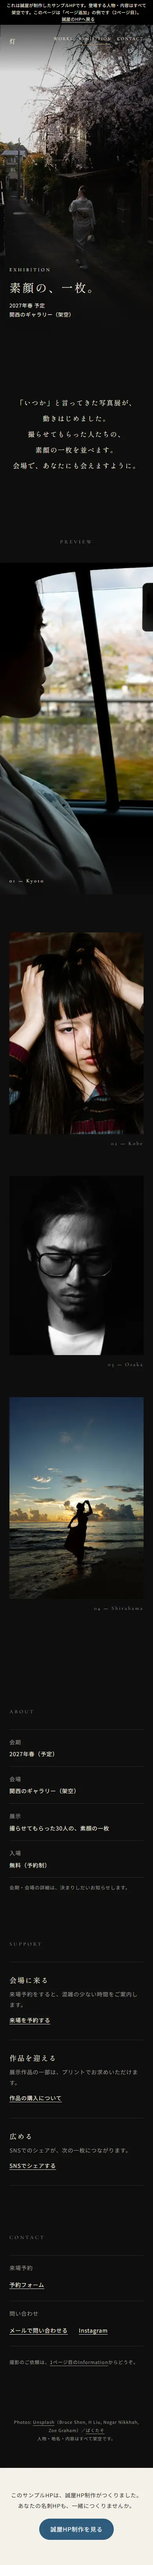
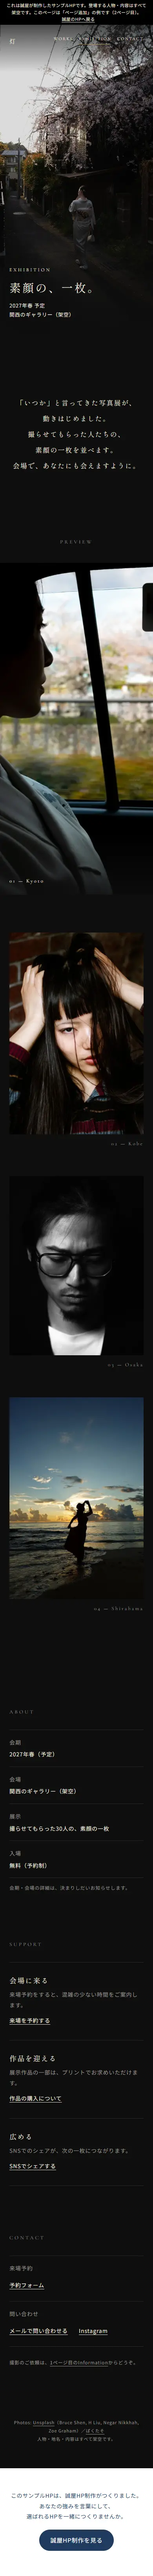
Add a For section to the 灯 sample and restyle its closing block
Adds who-it's-for lines and a consult button after the works, rewrites the
closing copy, switches the 誠屋 block to white and navy, and retakes the 灯
page images and the made-pages shots.

diff --git a/samples/portrait/index.html b/samples/portrait/index.html
@@ -40,7 +40,7 @@
        「4つの問い」の答えになる範囲は data-answer の付いたセクション
        ========================================================= */
     .is-shot body { overflow: hidden; }
-    .is-shot .credit, .is-shot .makotoya, .is-shot .journey,
+    .is-shot .credit, .is-shot .makotoya, .is-shot .journey, .is-shot .for,
     .is-shot .works-head, .is-shot .work:not(:first-of-type),
     .is-shot .voices li:nth-child(n+3),
     .is-shot .info dl > div:not(.info-contact) { display: none; }
@@ -95,7 +95,7 @@
       </div>
     </section>
 
-    <!-- 3. 作品（4つの問い：応援すると、どんな景色を一緒に見られるのか）
+    <!-- 3. 作品（4つの問い：頼むと、何が手に入るのか）
          画面いっぱい（work-full）と、余白の中に掛ける（work-hung）を交互に。写真を足すときは figure を1つコピーする -->
     <section id="works" class="works" aria-labelledby="works-title">
       <div class="works-head">
@@ -133,6 +133,19 @@
       </figure>
     </section>
 
+    <!-- 3.5 こんな人に（4つの問い：頼むと、何が手に入るのか＝強み／どう頼めばいいのか＝入口）
+         作品を見て「頼みたい」と思った瞬間に、自分のことだと気づける言葉と、相談の入口を置く -->
+    <section class="for" aria-labelledby="for-title">
+      <h2 id="for-title" class="label" lang="en">For</h2>
+      <ul>
+        <li>撮られるのが、苦手な人へ。</li>
+        <li>宣材写真を、自分らしく残したい人へ。</li>
+        <li>自分を、少し好きになりたい人へ。</li>
+      </ul>
+      <p class="for-note">緊張をほどくところから、<wbr>撮影ははじまります。</p>
+      <a class="for-cta" href="#information">撮影を相談する</a>
+    </section>
+
     <!-- 4. 歩みと今 -->
     <section class="journey" aria-labelledby="journey-title">
       <img src="/images/samples/portrait/journey.webp" width="1333" height="2000" loading="lazy" alt="">
@@ -149,7 +162,7 @@
     </section>
 
     <!-- 5. 声（文字だけ） -->
-    <!-- 4つの問い：応援すると、どんな景色を一緒に見られるのか -->
+    <!-- 4つの問い：頼むと、何が手に入るのか（依頼した人の言葉で、価値を伝える） -->
     <section class="voices" data-answer="voices" aria-labelledby="voices-title">
       <h2 id="voices-title" class="label" lang="en">Voices</h2>
       <ul>
@@ -166,13 +179,13 @@
           <p class="who">ヘアメイク・Yさん<span class="tag">サンプル</span></p>
         </li>
         <li>
-          <blockquote><p>撮られる人の緊張を、<wbr>ほどく人。<wbr>誠屋も、灯さんの個展を<wbr>心待ちにしているひとりです。</p></blockquote>
+          <blockquote><p>撮られる人の緊張を、<wbr>ほどく人。<wbr>外から見ていて、<wbr>それが灯さんにしかない<wbr>強みだと思います。</p></blockquote>
           <p class="who">誠屋より<span class="tag">サンプル</span></p>
         </li>
       </ul>
     </section>
 
-    <!-- 6. Information（4つの問い：どう応援すればいいのか） -->
+    <!-- 6. Information（4つの問い：どう頼めばいいのか＝頼まれ方） -->
     <section id="information" class="info" data-answer="info" aria-labelledby="info-title">
       <div class="info-inner">
         <h2 id="info-title" class="label" lang="en">Information</h2>
@@ -182,7 +195,7 @@
             <dd>
               <p class="row"><span>作品撮り<small>60分・データ15枚</small></span><span>15,000円〜</span></p>
               <p class="row"><span>宣材撮影<small>90分・データ30枚</small></span><span>25,000円〜</span></p>
-              <p class="row"><span>はじめてのポートレート<small>60分・データ10枚</small></span><span>12,000円〜</span></p>
+              <p class="row"><span>はじめてのポートレート<small>60分・データ10枚・撮られるのが苦手な方へ</small></span><span>12,000円〜</span></p>
               <p class="small">料金はすべて架空のサンプルです（税込・関西圏は出張費無料）。</p>
             </dd>
           </div>
@@ -212,7 +225,7 @@
     </p>
     <!-- 誠屋への導線 -->
     <div class="makotoya">
-      <p>このサンプルHPは、誠屋HP制作がつくりました。<br>あなたの名刺HPも、一緒につくりませんか。</p>
+      <p>このサンプルHPは、<wbr>誠屋HP制作がつくりました。<br>あなたの強みを言葉にして、<br>選ばれるHPを一緒につくりませんか。</p>
       <a href="/">誠屋HP制作を見る</a>
     </div>
   </footer>

diff --git a/samples/portrait/portrait.css b/samples/portrait/portrait.css
@@ -229,6 +229,35 @@ a { color: inherit; text-underline-offset: 4px; }
   cursor: pointer;
 }
 
+/* ---------- 3.5 こんな人に（強みと、相談の入口） ---------- */
+.for { padding: 140px var(--gutter) 120px; text-align: center; }
+.for .label { margin-bottom: 48px; color: var(--sub); }
+.for ul { display: grid; gap: 18px; }
+.for li {
+  font-size: clamp(1rem, .9rem + .5vw, 1.25rem);
+  line-height: 2;
+  letter-spacing: .14em;
+  word-break: keep-all;
+}
+.for-note { margin-top: 48px; color: var(--sub); font-size: .875rem; letter-spacing: .1em; word-break: keep-all; }
+.for-cta {
+  display: inline-flex;
+  align-items: center;
+  justify-content: center;
+  min-height: 48px;
+  margin-top: 32px;
+  padding: 10px 36px;
+  border: 1px solid var(--accent);
+  color: var(--text);
+  font-family: var(--sans);
+  font-size: .8125rem;
+  letter-spacing: .14em;
+  text-decoration: none;
+  transition: background-color .2s;
+}
+.for-cta:hover { background-color: rgba(184, 155, 106, .14); }
+@media (prefers-reduced-motion: reduce) { .for-cta { transition: none; } }
+
 /* ---------- 4. 歩みと今 ---------- */
 .journey {
   position: relative;
@@ -287,14 +316,15 @@ a { color: inherit; text-underline-offset: 4px; }
 /* ---------- 7. クレジット・誠屋への導線 ---------- */
 .credit { padding: 0 var(--gutter) 64px; color: var(--sub); font-family: var(--sans); font-size: .6875rem; line-height: 1.9; text-align: center; }
 .credit a { color: var(--sub); }
+/* 誠屋の枠：誠屋のブランド（紺 #1F3A5F と白・ゴシック体）でそろえる */
 .makotoya {
   padding: 56px var(--gutter) 64px;
-  background: #F4F1EA;
-  color: #2A2A26;
-  font-family: "Zen Kaku Gothic New", var(--sans);
+  background: #FFFFFF;
+  color: #1F3A5F;
+  font-family: var(--sans);
   text-align: center;
 }
-.makotoya p { font-size: .875rem; line-height: 1.9; letter-spacing: .05em; }
+.makotoya p { font-size: .875rem; line-height: 1.9; letter-spacing: .05em; word-break: keep-all; }
 .makotoya a {
   display: inline-flex;
   align-items: center;
@@ -303,13 +333,13 @@ a { color: inherit; text-underline-offset: 4px; }
   margin-top: 20px;
   padding: 12px 28px;
   border-radius: 999px;
-  background: #2F5B7C;
+  background: #1F3A5F;
   color: #FFFFFF;
   font-size: .9375rem;
   text-decoration: none;
 }
-.makotoya a:hover { background: #24485F; }
-.makotoya :focus-visible { outline-color: #2F5B7C; }
+.makotoya a:hover { background: #162B47; }
+.makotoya :focus-visible { outline-color: #1F3A5F; }
 
 /* ダミーのリンクを押したときのお知らせ */
 .toast {

diff --git a/index.html b/index.html
@@ -314,7 +314,7 @@
         <div class="pages">
           <figure class="page-card">
             <button class="page-shot" type="button" aria-label="名刺HP（1ページ目）の全体を拡大して見る">
-              <img src="/images/samples/page-1.webp" width="390" height="8903" loading="lazy" alt="サンプルHP「灯」の1ページ目（スマホ表示）の全体">
+              <img src="/images/samples/page-1.webp" width="390" height="9576" loading="lazy" alt="サンプルHP「灯」の1ページ目（スマホ表示）の全体">
               <span class="page-shot-hint" aria-hidden="true">全体を見る</span>
             </button>
             <figcaption>
@@ -327,7 +327,7 @@
           <p class="pages-plus" aria-hidden="true">＋</p>
           <figure class="page-card">
             <button class="page-shot" type="button" aria-label="ページ追加（2ページ目）の全体を拡大して見る">
-              <img src="/images/samples/page-2.webp" width="390" height="6523" loading="lazy" alt="サンプルHP「灯」の2ページ目（個展ページ・スマホ表示）の全体">
+              <img src="/images/samples/page-2.webp" width="390" height="6550" loading="lazy" alt="サンプルHP「灯」の2ページ目（個展ページ・スマホ表示）の全体">
               <span class="page-shot-hint" aria-hidden="true">全体を見る</span>
             </button>
             <figcaption>
@@ -539,7 +539,7 @@
               </figure>
               <figure class="page-card">
                 <button class="page-shot" type="button" aria-label="サットフラットの全体を拡大して見る">
-                  <img src="/images/works/satflat.webp" width="390" height="1950" loading="lazy" alt="大人のボードゲーム会「サットフラット」のページ（スマホ表示）の全体">
+                  <img src="/images/works/satflat.webp" width="390" height="1963" loading="lazy" alt="大人のボードゲーム会「サットフラット」のページ（スマホ表示）の全体">
                   <span class="page-shot-hint" aria-hidden="true">全体を見る</span>
                 </button>
                 <figcaption><p class="page-name">サットフラット<span>（ボードゲーム会）</span></p></figcaption>

diff --git a/samples/portrait/exhibition/index.html b/samples/portrait/exhibition/index.html
@@ -160,7 +160,7 @@
     </p>
     <!-- 誠屋への導線 -->
     <div class="makotoya">
-      <p>このサンプルHPは、誠屋HP制作がつくりました。<br>あなたの名刺HPも、一緒につくりませんか。</p>
+      <p>このサンプルHPは、<wbr>誠屋HP制作がつくりました。<br>あなたの強みを言葉にして、<br>選ばれるHPを一緒につくりませんか。</p>
       <a href="/">誠屋HP制作を見る</a>
     </div>
   </footer>
